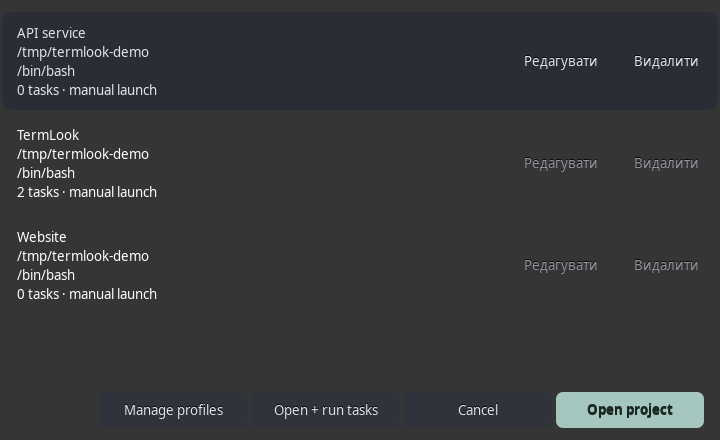
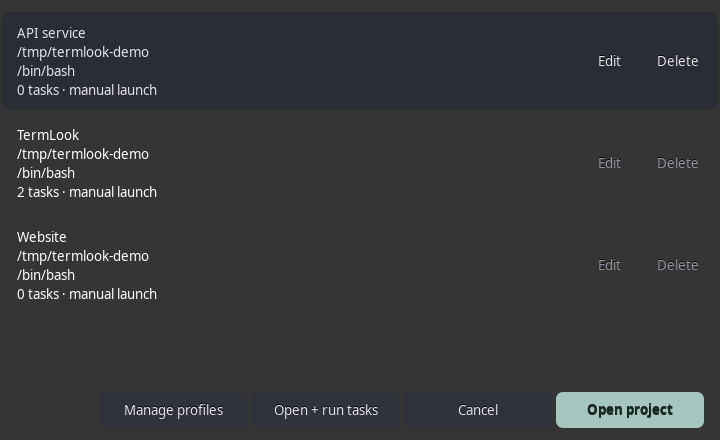
fix: use English throughout the UI and help, update screenshots (#10)

Changed region(s): [[0.7333, 0.5909, 0.9778, 0.6205], [0.7333, 0.3545, 0.9778, 0.3841], [0.7333, 0.1182, 0.9778, 0.1477]]

diff --git a/src/help.rs b/src/help.rs
@@ -329,12 +329,12 @@ fn customize(
 fn project_guide() -> gtk::ScrolledWindow {
     let (scroll, body) = page();
     for (title, text) in [
-        ("Створення проєкту", "1. Відкрийте Projects… → Manage profiles (або Settings → Profiles).\n2. Натисніть Choose folder… та виберіть папку проєкту. Назву можна вказати самостійно; якщо залишити порожньою, вона буде взята з назви папки.\n3. Shell можна залишити порожнім — використається стандартна оболонка.\n4. Натисніть Save project або Save and close. Apply і хрестик вікна налаштувань також зберігають форму. Discard changes відкидає лише незбережені зміни.\n5. Відкрийте Projects…, виберіть проєкт і натисніть Open project. Збережені проєкти видно списком над формою. Натисніть рядок, щоб редагувати його, або New project для нового профілю."),
-        ("Видалення збереженого проєкту", "Відкрийте Projects…: біля кожного проєкту є кнопки Редагувати та Видалити. Натисніть Видалити й підтвердьте дію — профіль одразу зникне зі списку та буде видалений із налаштувань. Папка, файли й уже запущені термінали залишаться. Якщо налаштування відкриті, спочатку збережіть або відкиньте їхні зміни. У Settings → Profiles також можна вибрати видимий рядок та натиснути Видалити вибраний проєкт, потім зберегти зміни."),
-        ("Автозапуск команд", "У полі Startup tasks введіть по одному завданню на рядок: Назва | команда. Наприклад:\nServer | npm run dev\nTests | npm test\nLogs | tail -f app.log\n\nЦе приклади: вкажіть команди саме вашого проєкту. Для звичайного термінала залиште поле порожнім. Увімкніть Run tasks automatically when I open this project та збережіть налаштування. Кожна команда запускається паралельно у своїй вкладці з папки проєкту. Сервер залишайте на передньому плані, без & в кінці команди."),
-        ("Логи, помилки та сповіщення", "Вивід програми й повідомлення про помилки з’являються в її терміналі під час роботи. ▶ означає запуск, ✓ — успішне завершення, ✗ — ненульовий код завершення або сигнал зупинки. Текст помилки у ще працюючій програмі не змінює статус автоматично.\nУ профілі виберіть Notify on errors only (лише помилки), Notify on every completion (усі завершення) або No desktop notifications. Сповіщення потребують служби повідомлень вашого робочого столу.\nЛоги залишаються у вкладці до її закриття або виходу з TermLook; на диск вони автоматично не архівуються."),
-        ("Зупинка та повторний запуск", "Ctrl+C у вкладці зупиняє команду; закриття вкладки потребує підтвердження. Повторне Open project повертає до робочого простору без дублювання завдань. Open + run tasks запускає завершений набір ще раз у нових вкладках. Поки хоча б одне завдання працює, повторний запуск заблокований. Після перезапуску TermLook відкрийте профіль через Projects, щоб запустити команди знову."),
-        ("Якщо проєкт не зберігається", "Після успішного Save project або Apply внизу налаштувань з’явиться Settings and projects saved. Якщо папка відсутня, оболонка не виконується або формат команди неправильний, буде показано помилку, а вікно залишиться відкритим. Виправте дані та збережіть ще раз. Якщо назва папки вже зайнята іншим профілем, задайте унікальну назву. Зміна профілю впливає на наступні запуски, а не перезапускає поточні процеси."),
+        ("Create a project", "1. Open Projects… → Manage profiles (or Settings → Profiles).\n2. Click Choose folder… and select your project folder. Enter a name, or leave it blank to use the folder name.\n3. Leave Shell empty to use the default shell.\n4. Click Save project or Save and close. Apply and the Settings window close button also save your form. Discard changes cancels unsaved edits.\n5. Open Projects…, select the project, and click Open project. Saved projects appear in the list above the form. Select a row to edit it, or click New project to create another."),
+        ("Delete a saved project", "Open Projects… to see Edit and Delete buttons next to each saved project. Click Delete and confirm to remove the profile from the list and saved settings immediately. Its folder, files, and running terminals are kept. If Settings is open, save or discard its changes first. You can also select a row in Settings → Profiles, click Delete selected project, and save your changes."),
+        ("Startup tasks", "Enter one task per line in Startup tasks using Name | command. For example:\nServer | npm run dev\nTests | npm test\nLogs | tail -f app.log\n\nUse commands that exist in your project. Leave the field empty for a normal terminal. Enable Run tasks automatically when I open this project and save. Each command runs concurrently in its own tab, from the project folder. Keep servers in the foreground, without a trailing &."),
+        ("Logs, errors, and notifications", "Standard output and error messages appear in the task terminal while it runs. ▶ means running, ✓ means success, and ✗ indicates a nonzero exit code or termination signal. Error text from a still-running program does not automatically change its status.\nChoose Notify on errors only, Notify on every completion, or No desktop notifications in the profile. Desktop notifications require your desktop notification service.\nLogs remain until the tab or TermLook closes. They are not automatically archived to disk."),
+        ("Stop and rerun tasks", "Press Ctrl+C in a task tab to stop its foreground command. Closing a tab asks for confirmation. Opening the same project again selects its workspace without duplicating tasks. Open + run tasks reruns a finished template in new tabs. Rerunning is blocked while any template task is still running. After restarting TermLook, open the profile from Projects to launch its tasks again."),
+        ("Troubleshooting saving", "After Save project or Apply succeeds, Settings and projects saved appears at the bottom of Settings. A missing folder, an invalid shell, or an incorrectly formatted task shows an error and keeps the window open. Correct the form and save again. If the folder name is already used by another profile, enter a unique project name. Profile changes affect future launches and do not restart current processes."),
     ] { body.pack_start(&card(title, text), false, false, 0); }
     scroll
 }
@@ -373,7 +373,7 @@ pub fn show(window: &gtk::ApplicationWindow, settings: &Settings, dir: &Path, we
     let stack = gtk::Stack::new();
     stack.set_transition_type(gtk::StackTransitionType::Crossfade);
     stack.add_titled(&quick_start(settings), "start", "Quick start");
-    stack.add_titled(&project_guide(), "projects", "Проєкти");
+    stack.add_titled(&project_guide(), "projects", "Projects");
     stack.add_titled(&shortcuts(settings), "shortcuts", "Shortcuts");
     stack.add_titled(
         &customize(settings, dir, &dialog, weak),

diff --git a/src/projects.rs b/src/projects.rs
@@ -115,13 +115,13 @@ impl Editor {
         default: &gtk::Entry,
     ) -> Self {
         let widget = gtk::Box::new(gtk::Orientation::Vertical, 10);
-        let heading = gtk::Label::new(Some("Збережені проєкти — натисніть рядок для редагування"));
+        let heading = gtk::Label::new(Some("Saved projects — select a row to edit"));
         heading.set_xalign(0.0);
         heading.set_line_wrap(true);
         widget.pack_start(&heading, false, false, 0);
         let selected = ProfileList::new();
         let empty = gtk::Label::new(Some(
-            "Проєктів ще немає. Виберіть папку нижче та натисніть Save project.",
+            "No saved projects yet. Choose a folder below and click Save project.",
         ));
         empty.set_line_wrap(true);
         selected.0.set_placeholder(Some(&empty));
@@ -182,7 +182,7 @@ impl Editor {
         });
         let save = gtk::Button::with_label("Save project");
         let new = gtk::Button::with_label("New project");
-        let delete = gtk::Button::with_label("Видалити вибраний проєкт");
+        let delete = gtk::Button::with_label("Delete selected project");
         delete.set_sensitive(false);
         delete.set_widget_name("project-remove");
         for button in [&save, &new, &delete] {
@@ -504,9 +504,9 @@ impl State {
             let contents = gtk::Box::new(gtk::Orientation::Horizontal, 12);
             label.set_ellipsize(pango::EllipsizeMode::Middle);
             contents.pack_start(&label, true, true, 0);
-            let edit = gtk::Button::with_label("Редагувати");
+            let edit = gtk::Button::with_label("Edit");
             edit.set_widget_name(&format!("edit-project-{name}"));
-            let delete = gtk::Button::with_label("Видалити");
+            let delete = gtk::Button::with_label("Delete");
             delete.set_widget_name(&format!("delete-project-{name}"));
             edit.set_valign(gtk::Align::Center);
             delete.set_valign(gtk::Align::Center);
@@ -532,9 +532,9 @@ impl State {
             // An open settings draft must be saved/discarded before editing the on-disk list.
             delete.set_sensitive(self.preferences.is_none());
             delete.set_tooltip_text(Some(if self.preferences.is_some() {
-                "Спочатку збережіть або закрийте налаштування."
+                "Save or close Settings first."
             } else {
-                "Видалити лише профіль. Файли та запущені термінали залишаться."
+                "Delete only the profile. Files and running terminals are kept."
             }));
             let weak = self.weak.clone();
             let key = name.clone();
@@ -548,15 +548,15 @@ impl State {
                     gtk::DialogFlags::MODAL | gtk::DialogFlags::DESTROY_WITH_PARENT,
                     gtk::MessageType::Question,
                     gtk::ButtonsType::None,
-                    &format!("Видалити проєкт «{key}» зі збережених?"),
+                    &format!("Delete saved project “{key}”?"),
                 );
                 confirm.set_widget_name("project-delete-confirmation");
                 confirm.set_secondary_text(Some(
-                    "Видаляється лише профіль. Папка, файли та запущені термінали залишаться.",
+                    "Only the profile will be deleted. Its folder, files, and running terminals are kept.",
                 ));
                 confirm.add_buttons(&[
-                    ("Скасувати", gtk::ResponseType::Cancel),
-                    ("Видалити", gtk::ResponseType::Accept),
+                    ("Cancel", gtk::ResponseType::Cancel),
+                    ("Delete", gtk::ResponseType::Accept),
                 ]);
                 confirm.set_default_response(gtk::ResponseType::Cancel);
                 let weak = weak.clone();

diff --git a/README.md b/README.md
@@ -90,7 +90,7 @@ Saved profiles appear in a visible list above the settings form. Select a row
 to edit it; use **New project** to create another. Invalid entries keep the
 settings window open and show an error. **Discard changes** cancels unsaved edits.
 
-In **Projects…**, every profile has **Редагувати** (Edit) and **Видалити** (Delete)
+In **Projects…**, every profile has **Edit** and **Delete**
 buttons. Confirmed deletion is saved immediately. It removes the profile, while
 its folder, files, and running terminals remain. Save or discard an open settings
 draft before deleting from the project manager.
@@ -176,7 +176,7 @@ leave the active settings unchanged.
 | Quit | Ctrl+Shift+Q |
 
 **F1** opens quick-start guidance, searchable shortcuts, customization help, and
-**Проєкти**, a Ukrainian guide to project creation, tasks, logs, and deletion.
+**Projects**, a guide to project creation, tasks, logs, and deletion.
 Tooltips reflect your configured shortcuts. Right-click a terminal for Copy/Paste;
 **Ctrl+C** retains its normal role of interrupting the foreground command.
 
